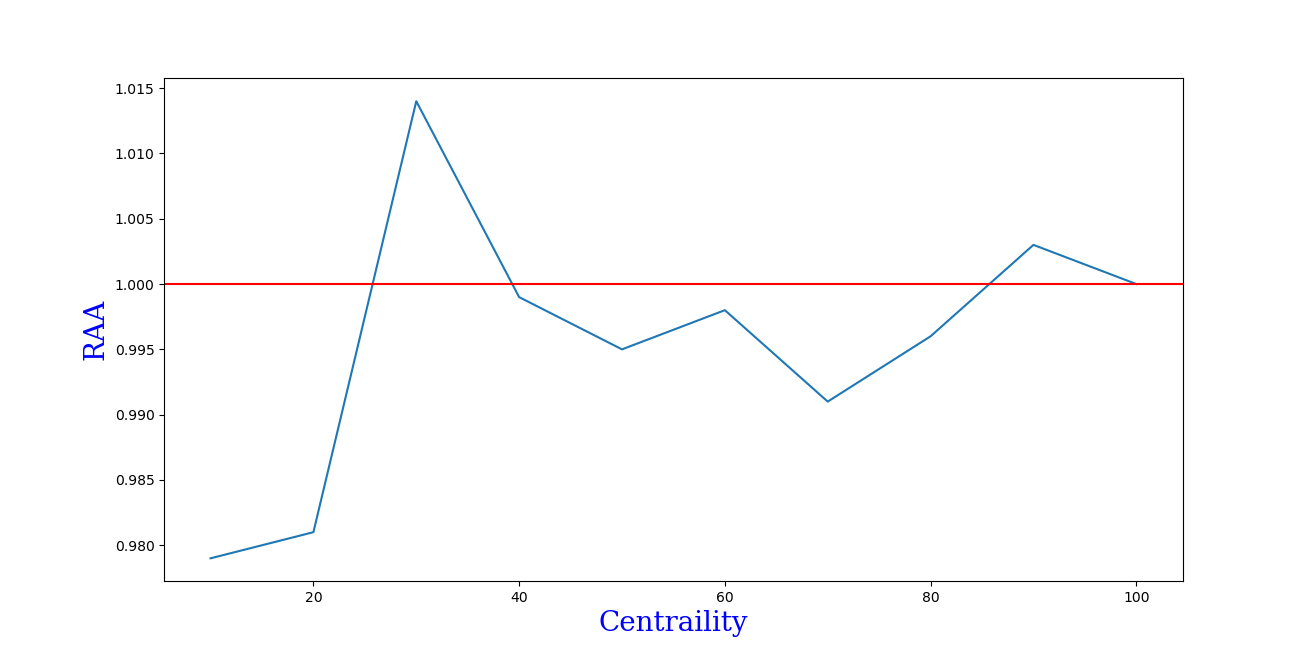
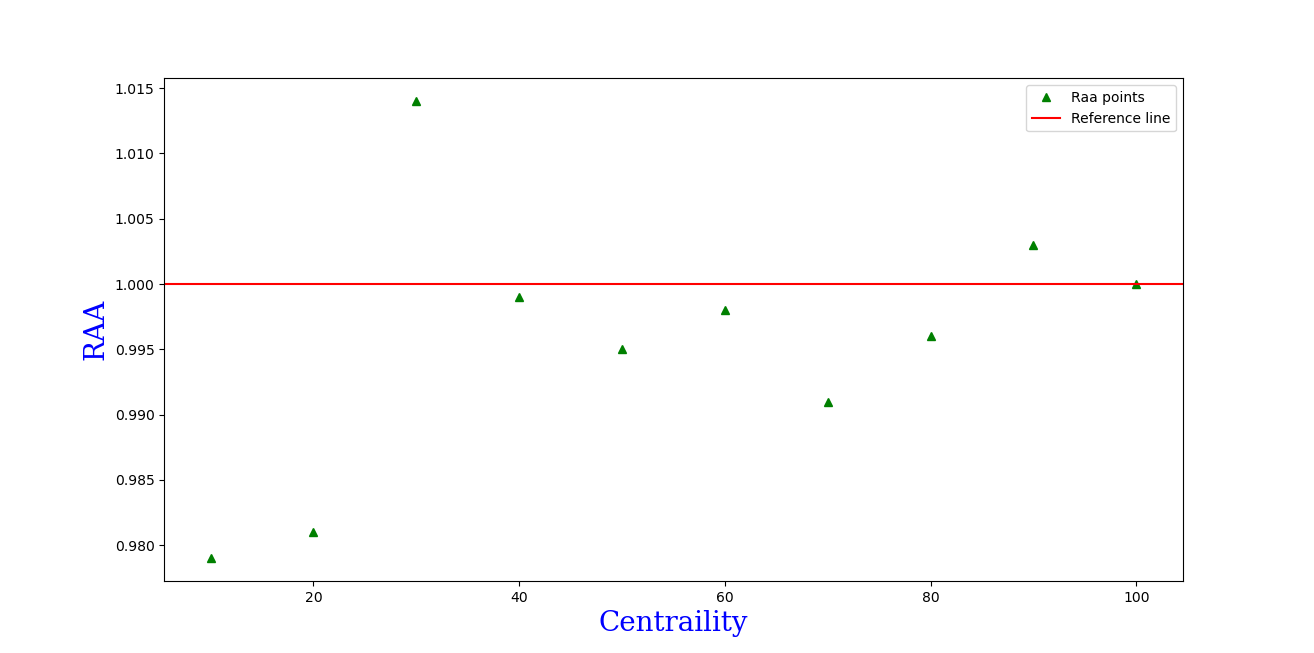
Modifying Raa plots

diff --git a/python_work/plot_lab.py b/python_work/plot_lab.py
@@ -7,10 +7,13 @@ import matplotlib.pyplot as plt
 #y=[1.19,0.67,1.02,1.17,0.82]
 
 
-my_xticks = ['0%-20%','20%-40%','40%-80%','80%-100%']
-x=[1,2,3,4]
+#my_xticks = ['0%-20%','20%-40%','40%-80%','80%-100%']
+my_xticks = ['0%-20%','20%-40%','40%-80%']
+#x=[1,2,3,4]
+x=[1,2,3]
+y=[0.3198,0.0332,0.0446]
 #y=[1.99,0.202,1.529,0.041]
-y=[0.066,0.103,0.235,0.070]
+#y=[0.066,0.103,0.235,0.070]
 #x=[10,20,30,40,80,100]
 #y=[0.979,0.981,1.014,0.999,0.996,1]
 plt.plot(x,y,'g^')

diff --git a/python_work/plot.py b/python_work/plot.py
@@ -5,8 +5,10 @@ x=[10,20,30,40,50,60,70,80,90,100]
 y=[0.979,0.981,1.014,0.999,0.995,0.998,0.991,0.996,1.003,1]
 #x=[10,20,30,40,80,100]
 #y=[0.979,0.981,1.014,0.999,0.996,1]
-plt.plot(x,y)
+plt.plot(x,y,'g^')
 font1 = {'family':'serif','color':'blue','size':20}
 plt.xlabel("Centraility",fontdict = font1)
 plt.ylabel("RAA",fontdict = font1)
+plt.axhline(y=1, color='r', linestyle='-')
+plt.legend(['Raa points','Reference line'])
 plt.show()
